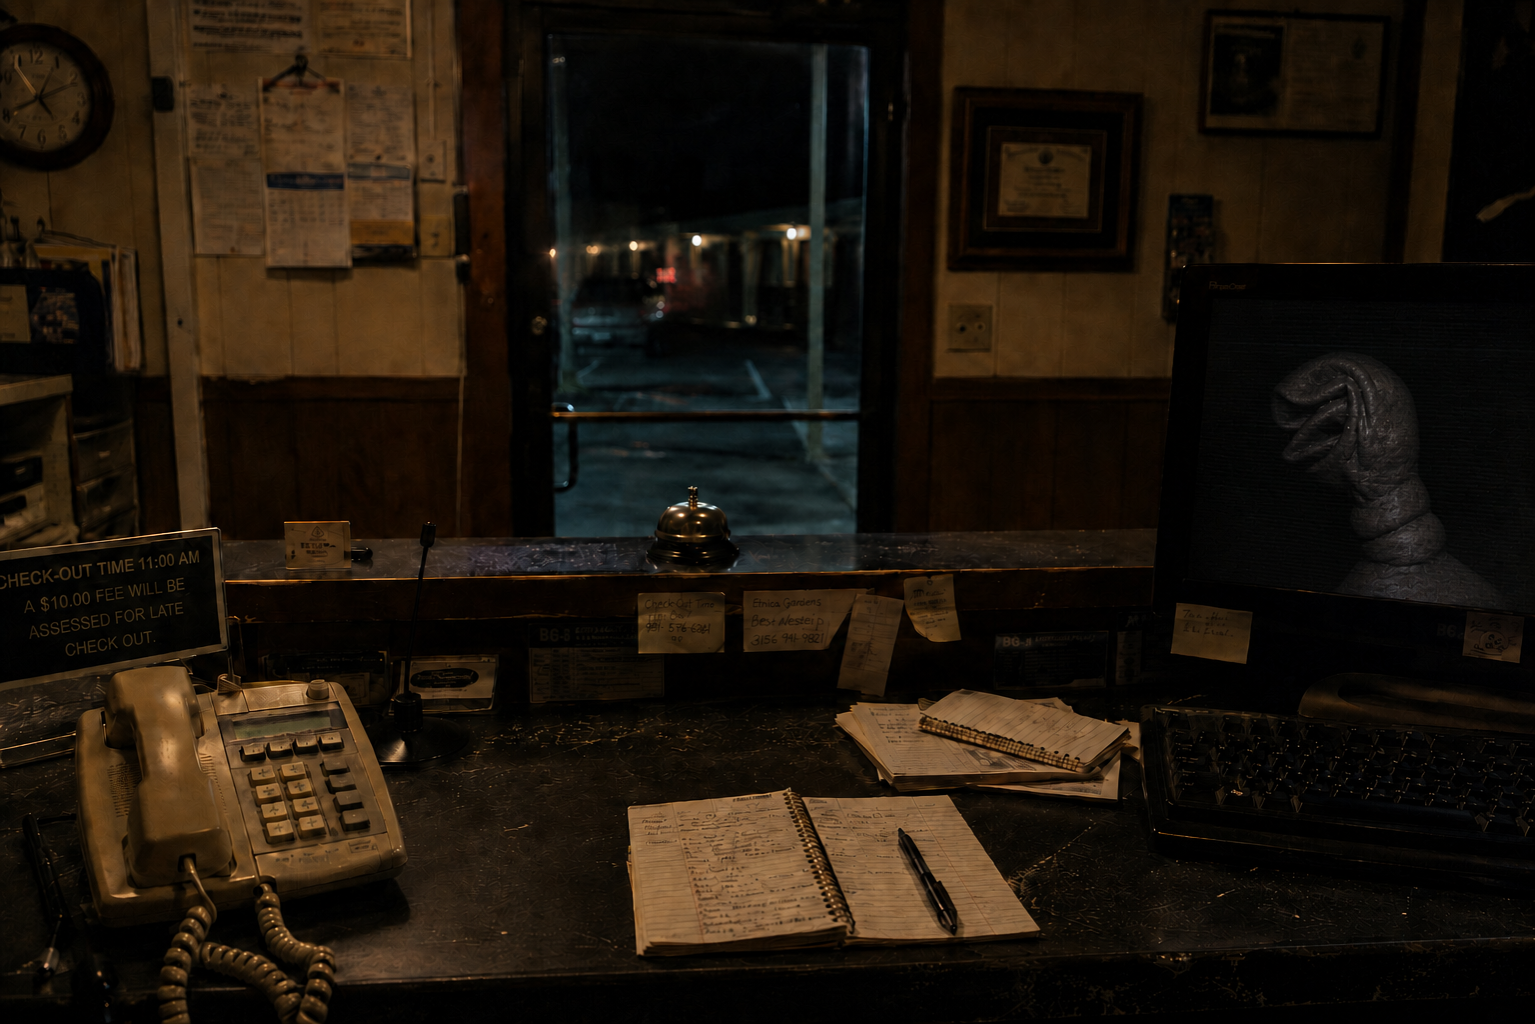
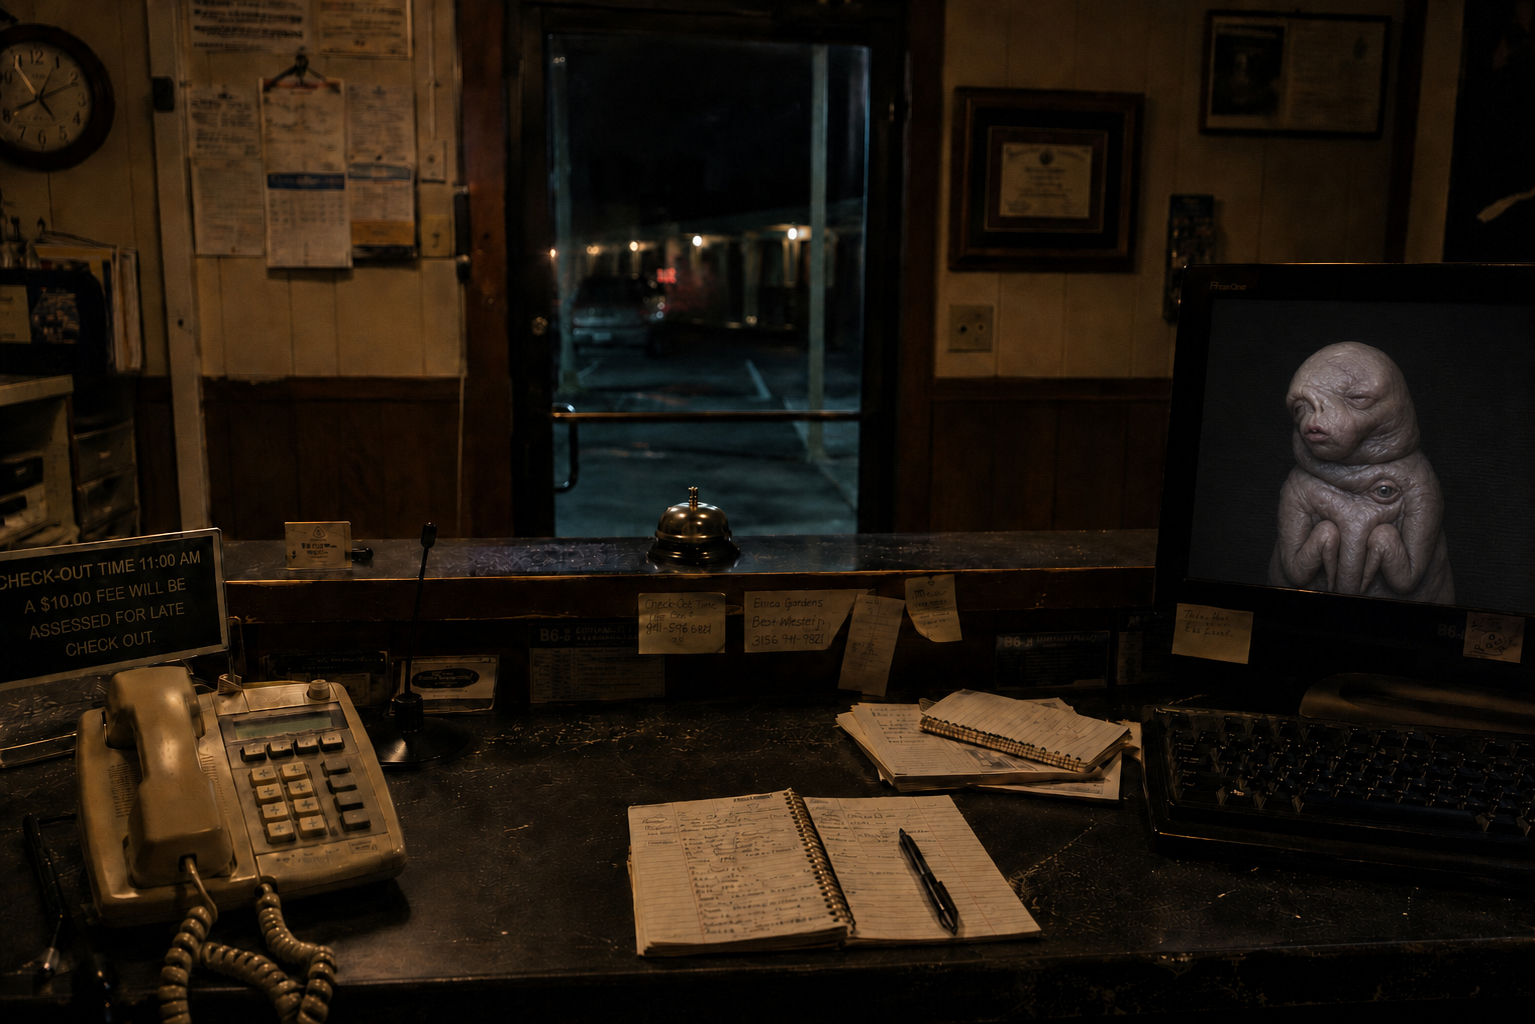
fix: complete anomaly interactions and presentation

diff --git a/docs/implementation/imagegen-mvp-assets-2026-07-26.md b/docs/implementation/imagegen-mvp-assets-2026-07-26.md
@@ -31,7 +31,7 @@
 
 ## 2026-08-01 최종 교체
 
-- `front_monitor_ghost`: 모니터 안에만 비대칭 연골 주름과 관절진 목을 가진 비인간 존재를 배치했다. 대칭적인 첫 외계인형 후보는 폐기했다.
+- `front_monitor_ghost`: 프런트 구도와 모니터 외부 픽셀은 유지하고, 오른쪽 화면 안에만 비대칭 주름과 유아 비율의 두개 형상을 가진 비인간 존재를 배치했다. 검은 화면에서 실루엣이 묻히지 않도록 차가운 회색 중간 명도로 분리했다.
 - `front_glass_face`: 중앙 유리문 밖에 같은 개체의 원거리 `visible`과 근거리 `hostile` 상태를 만들었다. 핫스폿도 실제 유리문 위치로 옮겼다.
 - `hell_mirror`: 접힌 태아형 동물-인간 존재가 불가능한 깊이에 갇힌 512×512 RGBA 아이콘으로 교체했다.
 - `room_105_closet_woman`: 별도 생성하지 않고 승인된 `reference_pig_mask_01.png`를 합성한 기존 `stage_2.png`와 점프스케어 원본을 계속 사용한다.

diff --git a/AGENTS.md b/AGENTS.md
@@ -34,3 +34,9 @@
 - Avoid “짜치는” presentation: unnecessary UI interruptions, redundant narration, forced transitions, celebratory confirmations, or synthetic effects that weaken the intended atmosphere.
 - Prefer restrained in-world, audio, animation, and persistent-state feedback. Add a modal or explanatory message only when the user explicitly requests it or the interaction would otherwise be genuinely unreadable.
 - Preserve authored diegetic dialogue, meaningful choices, and explicitly designed horror or death sequences; these are not routine action explanations.
+
+## Korean And English Localization
+
+- Add or update Korean and English together whenever player-facing text or a localization key changes.
+- Keep Korean and English key coverage identical. Never rely on English fallback text in Korean mode or Korean fallback text in English mode.
+- For catalog-driven game-over screens, verify every title and description key exists in both languages in the same change.
